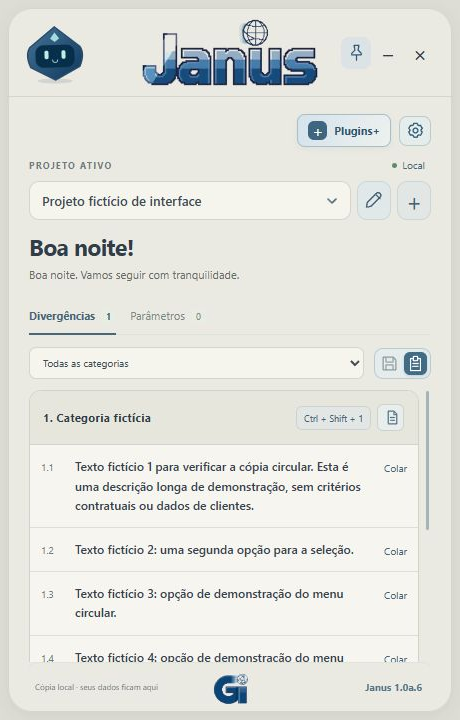
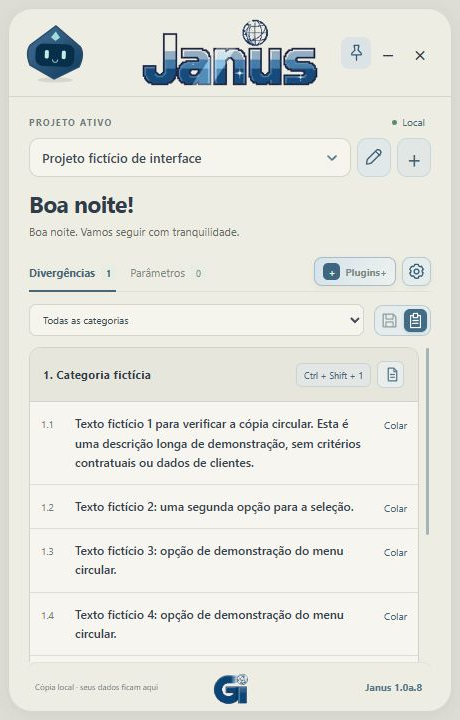
Align panel tools, move plugin note to footer and enrich mascot audio reactions

diff --git a/src/main.ts b/src/main.ts
@@ -57,7 +57,7 @@ root.innerHTML = `
     <div class="filter-row"><select id="category" aria-label="Filtrar categoria"></select><button id="copy-mode" class="copy-mode" role="switch" aria-checked="true"><span aria-hidden="true"><svg viewBox="0 0 24 24"><path d="M4 3h13l4 4v14H3V3zM7 3v7h10V3M7 21v-7h10v7"/></svg></span><span aria-hidden="true"><svg viewBox="0 0 24 24"><path d="M8 5H5v17h14V5h-3M9 2h6v6H9zM8 12h8M8 16h8"/></svg></span></button></div><button id="city-guide" class="guide-link" hidden>Ver orientações do PDF</button>
     <div id="list" class="list" aria-label="Divergências"></div>
     </section><section id="parameters-page" class="content-page" hidden aria-label="Parâmetros do projeto"><div id="parameters-list"></div></section><section id="plugins-page" class="content-page" hidden aria-label="Plugins+"><div class="plugins-page-top"><button id="plugins-back">← Voltar</button><h2>Plugins</h2></div><div id="plugins-content"></div></section>
-    <section id="no-active-menu" class="no-active-menu" hidden><span aria-hidden="true">☁</span><p>Nenhum menu ativo por aqui...</p><small>Você pode ativar os menus nas configurações.</small></section><footer><span id="shortcut-hint" data-help></span><img class="gi-logo" src="./gi-logo.jpg" alt="GI Geotecnologia" width="38" height="35" decoding="async"><button id="about" class="release-button" aria-label="Sobre o Janus 1.0a.7">Janus 1.0a.7</button></footer>
+    <section id="no-active-menu" class="no-active-menu" hidden><span aria-hidden="true">☁</span><p>Nenhum menu ativo por aqui...</p><small>Você pode ativar os menus nas configurações.</small></section><footer><span id="shortcut-hint" data-help></span><img class="gi-logo" src="./gi-logo.jpg" alt="GI Geotecnologia" width="38" height="35" decoding="async"><button id="about" class="release-button" aria-label="Sobre o Janus 1.0a.8">Janus 1.0a.8</button></footer>
   </section>
   <div id="toast" role="status" aria-live="polite"></div>
 </main>
@@ -85,7 +85,7 @@ root.innerHTML = `
  </section>
  </div>
 </dialog>
-<dialog id="info" aria-labelledby="info-title"><div class="dialog-top"><span class="eyebrow">GI GEOTECNOLOGIA</span><button class="icon dismiss" aria-label="Fechar informações">×</button></div><h2 id="info-title">Janus 1.0a.7</h2><p class="about-description">O Janus é um assistente corporativo desenvolvido para otimizar e modernizar o fluxo de trabalho nos setores de cadastramento imobiliário da GI Geotecnologia. Projetado como uma solução centralizada, o software acelera o tratamento de divergências e agiliza a consulta de parâmetros, operando em conjunto com agentes inteligentes que automatizam e dão suporte à execução das demandas operacionais. Com foco em produtividade, o Janus destaca-se por ser uma plataforma altamente customizável. A ferramenta oferece uma ampla gama de atalhos para dar fluidez ao serviço e possui uma arquitetura aberta, permitindo que os próprios usuários desenvolvam e integrem plugins personalizados por meio de uma documentação clara, simples e acessível.</p><p class="release-scope">Plugins+ permite baixar, ativar e desativar o Menu circular. Este primeiro formato personaliza a interface; outros tipos de integração serão adicionados posteriormente.</p><details class="about-credits"><summary>Créditos e informações da versão</summary><p>Personagem geométrico e sons sintetizados próprios do Janus. Código derivado do Coucou de Louis Raillé, sob licença MIT. Consulte os créditos que acompanham o programa.</p><p id="source-note"></p><p>Preferências e projetos ficam em dados/preferencias.json ao lado do executável. As conexões de IA ficam no Gerenciador de Credenciais do Windows.</p></details></dialog>`;
+<dialog id="info" aria-labelledby="info-title"><div class="dialog-top"><span class="eyebrow">GI GEOTECNOLOGIA</span><button class="icon dismiss" aria-label="Fechar informações">×</button></div><h2 id="info-title">Janus 1.0a.8</h2><p class="about-description">O Janus é um assistente corporativo desenvolvido para otimizar e modernizar o fluxo de trabalho nos setores de cadastramento imobiliário da GI Geotecnologia. Projetado como uma solução centralizada, o software acelera o tratamento de divergências e agiliza a consulta de parâmetros, operando em conjunto com agentes inteligentes que automatizam e dão suporte à execução das demandas operacionais. Com foco em produtividade, o Janus destaca-se por ser uma plataforma altamente customizável. A ferramenta oferece uma ampla gama de atalhos para dar fluidez ao serviço e possui uma arquitetura aberta, permitindo que os próprios usuários desenvolvam e integrem plugins personalizados por meio de uma documentação clara, simples e acessível.</p><p class="release-scope">Plugins+ permite baixar, ativar e desativar o Menu circular. Este primeiro formato personaliza a interface; outros tipos de integração serão adicionados posteriormente.</p><details class="about-credits"><summary>Créditos e informações da versão</summary><p>Personagem geométrico e sons sintetizados próprios do Janus. Código derivado do Coucou de Louis Raillé, sob licença MIT. Consulte os créditos que acompanham o programa.</p><p id="source-note"></p><p>Preferências e projetos ficam em dados/preferencias.json ao lado do executável. As conexões de IA ficam no Gerenciador de Credenciais do Windows.</p></details></dialog>`;
 const $ = <T extends HTMLElement = HTMLElement>(id:string) => document.getElementById(id) as T;
 const emptyProject:City={id:'',name:'Nenhum projeto',source:'',items:[]};
 const city = () => catalog.find(c=>c.id===prefs.city) ?? emptyProject;
@@ -111,7 +111,7 @@ async function sizeRadial(frame:RadialFrame,force=false){
 async function showRadial(value=false){
  const wasShown=radialShown,wasCompact=compact;
  const transition=++radialTransition;if(value&&radialShown&&!compact&&!radialPicker&&radialRoute==='home'&&!matchMedia('(prefers-reduced-motion: reduce)').matches){radialFolding=true;radialView?.element.classList.add('radial-retract');await new Promise(resolve=>setTimeout(resolve,320));if(transition!==radialTransition)return;}radialFolding=false;radialView?.element.classList.remove('radial-retract');
- if(!radialLayout||!radialView)return;radialRoute='home';root.dataset.radialPage='home';document.querySelectorAll<HTMLDialogElement>('dialog[open]').forEach(d=>d.close());if(chatOpen){chatOpen=false;$('janus-chat').hidden=true;root.classList.remove('chatting');}const changed=prefs.radialCompact!==value;prefs.radialCompact=value;compact=value;radialShown=true;radialPicker=false;root.classList.add('radial-mode');root.classList.remove('compact');
+ if(!radialLayout||!radialView)return;radialRoute='home';root.dataset.radialPage='home';document.querySelectorAll<HTMLDialogElement>('dialog[open]').forEach(d=>d.close());if(chatOpen){chatOpen=false;engine.setActivity(aiBusy?'thinking':'idle');$('janus-chat').hidden=true;root.classList.remove('chatting');}const changed=prefs.radialCompact!==value;prefs.radialCompact=value;compact=value;radialShown=true;radialPicker=false;root.classList.add('radial-mode');root.classList.remove('compact');
  const frame=radialView.main(value,{divergences:groups().length,parameters:guidanceForCity().parameters.filter(s=>s.text.trim()).length},action=>void radialAction(action));
  await sizeRadial(frame);applyLook();if(wasShown&&wasCompact!==value)Sound.play(value?'radialClose':'radialOpen');if(changed)save();
 }
@@ -123,7 +123,7 @@ async function radialAction(action:string,settingsSection:SettingsSection='gener
  if(!radialView)return;if(pickerActive)await closeCategory();++radialTransition;radialFolding=false;radialView.element.classList.remove('radial-retract');
  if(action==='home'){await showRadial(false);return;}
  document.querySelectorAll<HTMLDialogElement>('dialog[open]').forEach(d=>d.close());
- if(action!=='agent'&&chatOpen){chatOpen=false;$('janus-chat').hidden=true;root.classList.remove('chatting');}
+ if(action!=='agent'&&chatOpen){chatOpen=false;engine.setActivity(aiBusy?'thinking':'idle');$('janus-chat').hidden=true;root.classList.remove('chatting');}
  radialRoute=action;compact=false;radialShown=true;radialPicker=false;root.dataset.radialPage=action;root.classList.add('radial-mode');root.classList.remove('compact','picking');
  const frame=radialView.main(false,{divergences:groups().length,parameters:guidanceForCity().parameters.filter(s=>s.text.trim()).length},name=>void radialAction(name),true,action);
  await sizeRadial(frame);
@@ -379,16 +379,16 @@ async function boot() {
   setCity();applyLook();updateCopyMode();
   $('city').onchange=()=>{Sound.play('project');prefs.city=$<HTMLSelectElement>('city').value;setCity();void configureKeys();save();};
   $('search').oninput=()=>{query=$<HTMLInputElement>('search').value;renderList();};
-  $('copy-mode').onclick=()=>{prefs.copyMode=prefs.copyMode==='paste'?'copy':'paste';updateCopyMode();renderList();save();};
+  $('copy-mode').onclick=()=>{Sound.play('toggle');prefs.copyMode=prefs.copyMode==='paste'?'copy':'paste';updateCopyMode();renderList();save();};
   $('category').onchange=()=>{category=$<HTMLSelectElement>('category').value;renderList();};
-  $('all').onclick=()=>showPage('divergences');$('parameters-tab').onclick=()=>showPage('parameters');$('plugins-tab').onclick=()=>{Sound.play('navigate');showPage('plugins');};$('plugins-back').onclick=()=>{if(radialLayout)void showRadial(false);else showPage('divergences');};$('close-search').onclick=closeSearch;$('radial-return').onclick=()=>{document.querySelectorAll<HTMLDialogElement>('dialog[open]').forEach(d=>d.close());void showRadial(false);};
+  $('all').onclick=()=>{Sound.play('navigate');showPage('divergences');};$('parameters-tab').onclick=()=>{Sound.play('navigate');showPage('parameters');};$('plugins-tab').onclick=()=>{Sound.play('navigate');showPage('plugins');};$('plugins-back').onclick=()=>{if(radialLayout)void showRadial(false);else showPage('divergences');};$('close-search').onclick=closeSearch;$('radial-return').onclick=()=>{document.querySelectorAll<HTMLDialogElement>('dialog[open]').forEach(d=>d.close());void showRadial(false);};
   $('settings').onclick=()=>{Sound.play('navigate');openSettings();};$('about').onclick=()=>$<HTMLDialogElement>('info').showModal();
   document.querySelectorAll<HTMLButtonElement>('.dismiss').forEach(b=>b.onclick=()=>{const dialog=b.closest('dialog')!;dialog.close();if(radialShown&&dialog.id==='preferences')void showRadial(false);});
   $('collapse').onclick=()=>{if(radialShown&&native)void getCurrentWindow().minimize();else void setCompact(true);};$('expand').onclick=()=>void setCompact(false);
   $('close').onclick=()=>{if(native)void saveChain.then(()=>getCurrentWindow().close());else toast('No aplicativo Windows, este botão encerra o Janus.');};
   const pin=async()=>{if(native){await getCurrentWindow().setAlwaysOnTop(prefs.pinned);if(radialShown&&prefs.pinned)await dock(true);}applyLook();save();};
-  $('pin').onclick=()=>{prefs.pinned=!prefs.pinned;void pin().catch(()=>toast('Não foi possível fixar o painel.',true));};
-  for(const id of ['assistant','sound','pinned','hover','smartTransparency'] as const) $(id).onchange=()=>{prefs[id]=$<HTMLInputElement>(id).checked;if(id==='pinned')void pin().catch(()=>toast('Não foi possível fixar o painel.',true));else{if(id==='hover'&&!prefs.hover&&!radialShown&&compact)void setCompact(false);applyLook();save();}};
+  $('pin').onclick=()=>{prefs.pinned=!prefs.pinned;Sound.play(prefs.pinned?'pin':'unpin');engine.triggerEmote('wink');void pin().catch(()=>toast('Não foi possível fixar o painel.',true));};
+  for(const id of ['assistant','sound','pinned','hover','smartTransparency'] as const) $(id).onchange=()=>{prefs[id]=$<HTMLInputElement>(id).checked;if(id==='pinned')void pin().catch(()=>toast('Não foi possível fixar o painel.',true));else{if(id==='hover'&&!prefs.hover&&!radialShown&&compact)void setCompact(false);applyLook();if(id==='sound'&&prefs.sound)Sound.play('connected');save();}};
   for(const id of ['showDivergences','showParameters'] as const)$(id).onchange=()=>{prefs[id]=$<HTMLInputElement>(id).checked;showPage(activePage);save();};
   $('showPickerGuidance').onchange=()=>{prefs.showPickerGuidance=$<HTMLInputElement>('showPickerGuidance').checked;save();};
   $('opacity').oninput=()=>{prefs.opacity=Number($<HTMLInputElement>('opacity').value);applyLook();};$('opacity').onchange=save;
@@ -403,7 +403,7 @@ async function boot() {
     lastHeaderPress={time:now,x:e.screenX,y:e.screenY};
     if(doubleClick){lastHeaderPress.time=0;void dock(true);}else void getCurrentWindow().startDragging();
   };
-  const projectTools=document.createElement('div');projectTools.className='project-tools';projectTools.append($('plugins-tab'),$('settings'));document.querySelector('.city-row')!.prepend(projectTools);
+  const projectTools=document.createElement('div');projectTools.className='project-tools';projectTools.append($('plugins-tab'),$('settings'));document.querySelector('.tabs')!.append(projectTools);
   window.addEventListener('janus-plugin-imported',()=>{Sound.play('plugin');engine.triggerEmote('celebrate');});
   setupFreeDragging();
   $('dragbar').ondblclick=e=>{if(!native&&!(e.target as HTMLElement).closest('button'))void dock(true);};
@@ -447,8 +447,8 @@ async function boot() {
   document.addEventListener('keydown',e=>{if((e.ctrlKey&&['p','s'].includes(e.key.toLowerCase()))||e.key==='F7')e.preventDefault();});
   void setupLogo($<HTMLCanvasElement>('logo')).catch(()=>toast('Não foi possível carregar a animação.',true));
   $('logo').onkeydown=e=>{if(e.key==='Enter'||e.key===' '){e.preventDefault();$('logo').click();}};
-  if(!updateProbe)await configureKeys();applyLook();engine.greet();if(!updateProbe){Sound.play('wave');save();}
-  if(updateProbe)await invoke('update_healthy');else{await setupPluginsPage($('plugins-content'),native,changePlugin);const fontContainer=document.createElement('div');fontContainer.id='font-plugin-card';$('plugins-content').after(fontContainer);await setupFontPlugin(fontContainer,native,enabled=>{$('settings-fonts-tab').hidden=!enabled;if(!enabled&&$('settings-fonts-tab').getAttribute('aria-selected')==='true')showSettingsSection('general');});if(!radialLayout&&prefs.hover)await setCompact(true);if(native)await getCurrentWindow().show();void setupUpdater(native,async()=>{save();await saveChain;});}
+  if(!updateProbe)await configureKeys();applyLook();engine.greet();if(!updateProbe){Sound.setup();Sound.play('wave');save();}
+  if(updateProbe)await invoke('update_healthy');else{await setupPluginsPage($('plugins-content'),native,changePlugin);const fontContainer=document.createElement('div');fontContainer.id='font-plugin-card';$('plugins-content').after(fontContainer);const pluginNote=document.createElement('small');pluginNote.className='plugins-note plugins-footer-note';pluginNote.textContent='Arquivos JSON de layout compatíveis. A ativação independe do projeto.';fontContainer.after(pluginNote);await setupFontPlugin(fontContainer,native,enabled=>{$('settings-fonts-tab').hidden=!enabled;if(!enabled&&$('settings-fonts-tab').getAttribute('aria-selected')==='true')showSettingsSection('general');});if(!radialLayout&&prefs.hover)await setCompact(true);if(native)await getCurrentWindow().show();void setupUpdater(native,async()=>{save();await saveChain;});}
 }
 function validCity(value:any):value is City {return validProject(value);}
 function updateCopyMode(){const copying=prefs.copyMode==='copy';$('copy-mode').setAttribute('aria-checked',String(!copying));$('copy-mode').setAttribute('aria-label',copying?'Apenas copiar. Alternar para colar.':'Copiar e colar. Alternar para apenas copiar.');$('copy-mode').title=copying?'Disquete · Apenas copia o texto para a área de transferência (Ctrl + C). Clique para colar.':'Prancheta · Copia e cola o texto no aplicativo anterior (Ctrl + V). Clique para apenas copiar.';}
@@ -608,14 +608,14 @@ function setupAI(){
  $('open-ai').onclick=()=>openSettings('agent');
  $('chat-connect').onclick=async()=>{await closeChat();openSettings('agent');};
  $('close-chat').onclick=()=>void closeChat();
- $('clear-chat').onclick=()=>{if(aiBusy)return;chatHistory.delete(prefs.city);renderConversation();};
+ $('clear-chat').onclick=()=>{if(aiBusy)return;Sound.play('clear');engine.triggerEmote('happy');chatHistory.delete(prefs.city);renderConversation();};
  $('ai-question').onkeydown=e=>{if(e.key==='Enter'&&!e.shiftKey&&!e.isComposing){e.preventDefault();$('ask-ai').click();}};
  $('connect-ai').onclick=async()=>{
   if(aiBusy)return;if(!native){$('ai-status').textContent='Conecte pelo aplicativo Windows.';return;}
   const key=$<HTMLInputElement>('agent-key').value.trim(),config:AgentConfig={provider:$<HTMLSelectElement>('agent-provider').value,baseUrl:$<HTMLInputElement>('agent-url').value.trim().replace(/\/$/,''),model:$<HTMLInputElement>('agent-model').value.trim()};
   if(!config.model||!config.baseUrl){$('ai-status').textContent='Preencha o endereço da API e o modelo.';return;}
   aiBusy=true;$<HTMLButtonElement>('connect-ai').disabled=true;$<HTMLButtonElement>('remove-ai').disabled=true;$('ai-status').textContent='Testando conexão com o provedor…';
-  try{connectedAgent=await invoke<AgentConfig>('ai_connect',{key,config});if(config.provider==='gemini')prefs.geminiModel=config.model;lastWelcomeAttempt='';prefs.welcomeAttempt=undefined;prefs.welcomeCache=undefined;save();aiConnected=true;$<HTMLInputElement>('agent-key').value='';showAIState();await configureKeys();$<HTMLDialogElement>('preferences').close();await openChat();}catch(e){$('ai-status').textContent=String(e);}finally{aiBusy=false;$<HTMLButtonElement>('connect-ai').disabled=false;$<HTMLButtonElement>('remove-ai').disabled=false;}
+  try{connectedAgent=await invoke<AgentConfig>('ai_connect',{key,config});if(config.provider==='gemini')prefs.geminiModel=config.model;lastWelcomeAttempt='';prefs.welcomeAttempt=undefined;prefs.welcomeCache=undefined;save();aiConnected=true;Sound.play('connected');engine.triggerEmote('wave');$<HTMLInputElement>('agent-key').value='';showAIState();await configureKeys();$<HTMLDialogElement>('preferences').close();await openChat();}catch(e){$('ai-status').textContent=String(e);}finally{aiBusy=false;$<HTMLButtonElement>('connect-ai').disabled=false;$<HTMLButtonElement>('remove-ai').disabled=false;}
  };
  $('remove-ai').onclick=async()=>{if(aiBusy)return;try{if(native)await invoke('ai_remove');aiConnected=false;connectedAgent=null;prefs.welcomeCache=undefined;save();$<HTMLInputElement>('agent-key').value='';await closeChat();showAIState();await configureKeys();}catch{$('ai-status').textContent='Não foi possível remover a chave. Tente novamente.';}};
  $('ask-ai').onclick=async()=>{
@@ -624,8 +624,8 @@ function setupAI(){
   const previous=history.filter(m=>m.role!=='error').slice(-12).map(m=>`${m.role==='user'?'Usuário':'Janus'}: ${m.text}`).join('\n').slice(-30000);
   const reference=$<HTMLInputElement>('ai-context').checked?{projeto:projectLabel(city().name),divergencias:city().items,parametros:guidanceForCity()}:undefined;
   const context=JSON.stringify({conversaAnterior:previous,referencia:reference});
-  Sound.play('send');history.push({role:'user',text:question});$<HTMLTextAreaElement>('ai-question').value='';aiBusy=true;renderConversation();syncChatConnection();$('thinking').hidden=false;scrollConversation();
-  try{const answer=await invoke<string>('ai_ask',{question,context,legacyModel:prefs.geminiModel,welcome:false});history.push({role:'assistant',text:answer});Sound.play('finish');engine.triggerEmote('celebrate');}catch(e){Sound.play('error');history.push({role:'error',text:String(e)});}finally{aiBusy=false;$('thinking').hidden=true;renderConversation();syncChatConnection();$('ai-question').focus();}
+  Sound.play('send');engine.setActivity('thinking');history.push({role:'user',text:question});$<HTMLTextAreaElement>('ai-question').value='';aiBusy=true;renderConversation();syncChatConnection();$('thinking').hidden=false;scrollConversation();
+  try{const answer=await invoke<string>('ai_ask',{question,context,legacyModel:prefs.geminiModel,welcome:false});history.push({role:'assistant',text:answer});Sound.play('response');engine.triggerEmote('respond');}catch(e){Sound.play('error');engine.triggerEmote('concerned');history.push({role:'error',text:String(e)});}finally{aiBusy=false;engine.setActivity(chatOpen?'listening':'idle');$('thinking').hidden=true;renderConversation();syncChatConnection();$('ai-question').focus();}
 
  };
 }
@@ -644,14 +644,14 @@ async function openChat(){
  if(chatOpen){if(native){await getCurrentWindow().show();await getCurrentWindow().unminimize();await getCurrentWindow().setFocus();}$('ai-question').focus();return;}
  chatReturnCompact=compact;chatOpen=true;root.classList.add('chatting');
  if(native){if(!radialShown){await getCurrentWindow().setMinSize(null);await getCurrentWindow().setSize(new LogicalSize(460,700));}await getCurrentWindow().show();await getCurrentWindow().unminimize();await getCurrentWindow().setFocus();}
- $('close-chat').textContent=radialShown?'← Menu circular':'← Voltar ao painel';$('close-chat').setAttribute('aria-label',radialShown?'Voltar ao menu circular':'Voltar ao painel');$('janus-chat').hidden=false;renderConversation();syncChatConnection();applyLook();Sound.play('question');$('ai-question').focus();
+ $('close-chat').textContent=radialShown?'← Menu circular':'← Voltar ao painel';$('close-chat').setAttribute('aria-label',radialShown?'Voltar ao menu circular':'Voltar ao painel');$('janus-chat').hidden=false;renderConversation();syncChatConnection();applyLook();engine.setActivity(aiBusy?'thinking':'listening');engine.triggerEmote('happy');Sound.play('question');$('ai-question').focus();
 }
 function syncChatConnection(){
  $('chat-connect').hidden=aiConnected;$('chat-disconnected').hidden=aiConnected;
  $<HTMLButtonElement>('ask-ai').disabled=!aiConnected||aiBusy;
 }
-async function closeChat(){if(!chatOpen)return;chatOpen=false;$('janus-chat').hidden=true;root.classList.remove('chatting');Sound.play('close');if(radialShown)await showRadial(false);else await setCompact(chatReturnCompact);applyLook();}
-root.querySelector('.shell')!.insertAdjacentHTML('beforeend',`<section id="janus-chat" class="janus-chat" hidden aria-label="Chat do Janus"><div class="chat-toolbar"><button id="close-chat" aria-label="Voltar ao painel">← Voltar ao painel</button><button id="clear-chat" title="Limpar conversa deste projeto">Limpar conversa</button></div><div class="chat-intro"><div class="speech-bubble"><strong>Converse com o Janus</strong><span>Uma ajuda para o seu projeto.</span></div></div><div id="chat-transcript" class="chat-transcript" role="log" aria-label="Conversa" aria-live="polite"><div id="chat-welcome" class="chat-welcome"><h3>Em que posso ajudar?</h3><p>Faça uma pergunta, peça uma explicação ou converse sobre o projeto.</p><p class="small">A conversa fica disponível enquanto o Janus estiver aberto.</p></div><p id="chat-disconnected" class="small">Conecte um agente IA nas configurações para enviar mensagens.</p><button id="chat-connect" class="connect-chat">Conectar agente IA</button><div id="chat-messages"></div><div id="thinking" class="thinking" role="status" aria-label="Janus está pensando" hidden><span></span><span></span><span></span></div></div><div class="chat-compose"><label class="field-label" for="ai-question">SUA MENSAGEM</label><textarea id="ai-question" rows="2" maxlength="10000" placeholder="Escreva sua mensagem…"></textarea><div class="chat-compose-actions"><small data-help>Enter envia · Shift + Enter pula linha</small><button class="primary" id="ask-ai">Enviar ↑</button></div></div><label class="chat-context"><input type="checkbox" id="ai-context"> Incluir divergências e parâmetros do projeto</label><p class="chat-privacy">Ao enviar, sua mensagem, as últimas mensagens da conversa e o conteúdo marcado vão para o provedor de IA conectado.</p><span class="app-version chat-version">Janus 1.0a.7</span></section>`);
+async function closeChat(){if(!chatOpen)return;chatOpen=false;engine.setActivity(aiBusy?'thinking':'idle');$('janus-chat').hidden=true;root.classList.remove('chatting');Sound.play('close');if(radialShown)await showRadial(false);else await setCompact(chatReturnCompact);applyLook();}
+root.querySelector('.shell')!.insertAdjacentHTML('beforeend',`<section id="janus-chat" class="janus-chat" hidden aria-label="Chat do Janus"><div class="chat-toolbar"><button id="close-chat" aria-label="Voltar ao painel">← Voltar ao painel</button><button id="clear-chat" title="Limpar conversa deste projeto">Limpar conversa</button></div><div class="chat-intro"><div class="speech-bubble"><strong>Converse com o Janus</strong><span>Uma ajuda para o seu projeto.</span></div></div><div id="chat-transcript" class="chat-transcript" role="log" aria-label="Conversa" aria-live="polite"><div id="chat-welcome" class="chat-welcome"><h3>Em que posso ajudar?</h3><p>Faça uma pergunta, peça uma explicação ou converse sobre o projeto.</p><p class="small">A conversa fica disponível enquanto o Janus estiver aberto.</p></div><p id="chat-disconnected" class="small">Conecte um agente IA nas configurações para enviar mensagens.</p><button id="chat-connect" class="connect-chat">Conectar agente IA</button><div id="chat-messages"></div><div id="thinking" class="thinking" role="status" aria-label="Janus está pensando" hidden><span></span><span></span><span></span></div></div><div class="chat-compose"><label class="field-label" for="ai-question">SUA MENSAGEM</label><textarea id="ai-question" rows="2" maxlength="10000" placeholder="Escreva sua mensagem…"></textarea><div class="chat-compose-actions"><small data-help>Enter envia · Shift + Enter pula linha</small><button class="primary" id="ask-ai">Enviar ↑</button></div></div><label class="chat-context"><input type="checkbox" id="ai-context"> Incluir divergências e parâmetros do projeto</label><p class="chat-privacy">Ao enviar, sua mensagem, as últimas mensagens da conversa e o conteúdo marcado vão para o provedor de IA conectado.</p><span class="app-version chat-version">Janus 1.0a.8</span></section>`);
 root.insertAdjacentHTML('afterend',`
 <dialog id="guidance-menu" aria-labelledby="guidance-title"><div class="dialog-top"><h2 id="guidance-title"></h2><button class="icon dismiss" aria-label="Fechar orientações da categoria">×</button></div><div id="guidance-content"></div></dialog>
 <dialog id="category-picker"><div class="dialog-top"><span class="eyebrow">ESCOLHA A DIVERGÊNCIA</span><button id="close-picker" class="icon" aria-label="Fechar opções">×</button></div><h2 id="picker-title"></h2><button id="toggle-picker-guidance" class="picker-guidance-toggle" aria-controls="picker-guidance">Ocultar orientações</button><div id="picker-guidance"></div><p id="picker-action-hint" class="small" data-help>↑ ↓ para escolher · Enter para colar · Esc para voltar</p><div id="picker-options" role="listbox" aria-label="Opções da divergência"></div></dialog>

diff --git a/src/avatar.ts b/src/avatar.ts
@@ -1,27 +1,32 @@
 // Original Janus compass character, drawn without external artwork.
 export class BotEngine {
- lookX=0;lookY=0;private time=0;private reaction=0;private expression='';
+ lookX=0;lookY=0;private time=0;private reaction=0;private expression='';private activity:'idle'|'listening'|'thinking'='idle';
  update(dt:number){this.time+=Math.min(dt,.1);this.reaction=Math.max(0,this.reaction-dt);}
- triggerEmote(name:string){this.expression=name;this.reaction=1.3;}
+ triggerEmote(name:string){this.expression=name;this.reaction=name==='respond'?2.4:1.3;}
+ setActivity(activity:'idle'|'listening'|'thinking'){this.activity=activity;}
  greet(){this.triggerEmote('wave');this.reaction=2.4;}slap(){this.triggerEmote('surprised');}
  draw(ctx:CanvasRenderingContext2D,width:number,height:number){
   const reduced=matchMedia('(prefers-reduced-motion: reduce)').matches,t=this.time;
   ctx.save();ctx.scale(Math.min(width,height)/160,Math.min(width,height)/160);ctx.translate(80,80+(reduced?0:Math.sin(t*1.8)*3));
+  const thinking=this.activity==='thinking',listening=this.activity==='listening',responding=this.reaction>0&&this.expression==='respond';
   const x=Math.max(-1,Math.min(1,this.lookX))*7,y=Math.max(-1,Math.min(1,this.lookY))*6;
-  ctx.fillStyle='rgba(22,51,78,.12)';ctx.beginPath();ctx.ellipse(0,53,35,5,0,0,Math.PI*2);ctx.fill();ctx.rotate(reduced?0:Math.sin(t*.9)*.035);
+  if(thinking||listening||responding){ctx.save();ctx.strokeStyle=thinking?'#76b7cf88':'#83d7d377';ctx.lineWidth=2;ctx.beginPath();ctx.ellipse(0,0,62+(reduced?0:Math.sin(t*3)*2),59,0,0,Math.PI*2);ctx.stroke();if(thinking)for(let i=0;i<3;i++){const a=(reduced?-.9:t*1.4)+i*.55;ctx.fillStyle='#a3e5e4';ctx.beginPath();ctx.arc(Math.cos(a)*62,Math.sin(a)*59,3,0,Math.PI*2);ctx.fill();}ctx.restore();}
+  ctx.fillStyle='rgba(22,51,78,.12)';ctx.beginPath();ctx.ellipse(0,53,35,5,0,0,Math.PI*2);ctx.fill();ctx.rotate(reduced?0:thinking?Math.sin(t*2)*.075:listening?Math.sin(t*2.7)*.045:Math.sin(t*.9)*.035);
   const g=ctx.createLinearGradient(-45,-45,45,45);g.addColorStop(0,'#426d92');g.addColorStop(1,'#123d61');ctx.fillStyle=g;ctx.strokeStyle='#294c6b';ctx.lineWidth=3;
   ctx.beginPath();ctx.moveTo(0,-55);ctx.lineTo(50,-15);ctx.quadraticCurveTo(60,0,49,25);ctx.lineTo(0,51);ctx.lineTo(-49,25);ctx.quadraticCurveTo(-60,0,-50,-15);ctx.closePath();ctx.fill();ctx.stroke();
   if(this.reaction>0&&!reduced&&this.expression==='wave'){ctx.save();ctx.translate(51,-3);ctx.rotate(Math.sin(t*16)*.35);ctx.strokeStyle='#75b3c9';ctx.lineWidth=7;ctx.beginPath();ctx.moveTo(0,15);ctx.lineTo(12,-6);ctx.stroke();ctx.fillStyle='#bdeee8';ctx.beginPath();ctx.ellipse(12,-12,7,10,0,0,Math.PI*2);ctx.fill();ctx.restore();}
   if(this.reaction>0&&this.expression==='wave'){ctx.fillStyle='#d0eeec';ctx.beginPath();ctx.roundRect(-64,-65,38,23,8);ctx.fill();ctx.fillStyle='#234f70';ctx.font='bold 14px Segoe UI';ctx.textAlign='center';ctx.fillText('Oi!',-45,-49);}
   ctx.fillStyle='#9fdedc';ctx.beginPath();ctx.moveTo(0,-44);ctx.lineTo(9,-32);ctx.lineTo(0,-25);ctx.lineTo(-9,-32);ctx.closePath();ctx.fill();
   ctx.fillStyle='#082f49';ctx.beginPath();ctx.roundRect(-39,-19,78,45,16);ctx.fill();
-  const curious=this.reaction>0&&['curious','thinking'].includes(this.expression),surprise=this.reaction>0&&this.expression==='surprised';
-  if(curious){ctx.save();ctx.fillStyle='#d3eff0';ctx.font='bold 29px Segoe UI';ctx.textAlign='center';ctx.fillText('?',39,-35+(reduced?0:Math.sin(t*4)*2));ctx.restore();}
+  const curious=thinking||this.reaction>0&&['curious','thinking'].includes(this.expression),surprise=this.reaction>0&&this.expression==='surprised';
+  if(curious&&!thinking){ctx.save();ctx.fillStyle='#d3eff0';ctx.font='bold 29px Segoe UI';ctx.textAlign='center';ctx.fillText('?',39,-35+(reduced?0:Math.sin(t*4)*2));ctx.restore();}
   if(this.reaction>0&&this.expression==='celebrate'){for(let i=0;i<6;i++){const angle=i*Math.PI/3+(reduced?0:t);ctx.fillStyle=i%2?'#88d4ce':'#c4eaf0';ctx.beginPath();ctx.arc(Math.cos(angle)*61,Math.sin(angle)*48,2.5,0,Math.PI*2);ctx.fill();}}
-  const happy=this.reaction>0&&['happy','love','wave','celebrate'].includes(this.expression),blink=!reduced&&Math.sin(t*1.3)>.995;
+  if(thinking){ctx.fillStyle='#d0eeec';ctx.beginPath();ctx.roundRect(16,-65,48,22,9);ctx.fill();for(let i=0;i<3;i++){ctx.fillStyle='#315f7b';ctx.beginPath();ctx.arc(27+i*12,-54+(reduced?0:Math.sin(t*5-i*.8)*2),2.4,0,Math.PI*2);ctx.fill();}}
+  if(responding){ctx.strokeStyle='#a9e4e4';ctx.lineWidth=2;for(let i=0;i<3;i++){ctx.beginPath();ctx.arc(47,-8,10+i*5,-.6,.6);ctx.stroke();}}
+  const happy=this.reaction>0&&['happy','love','wave','celebrate','respond'].includes(this.expression),blink=!reduced&&Math.sin(t*1.3)>.995;
   ctx.strokeStyle='#bdeee8';ctx.fillStyle='#bdeee8';ctx.lineWidth=4;ctx.lineCap='round';
-  for(const offset of [-17,17]){if(happy){ctx.beginPath();ctx.arc(offset+x,5+y,7,Math.PI,Math.PI*2);ctx.stroke();}else{ctx.beginPath();ctx.roundRect(offset-4+x,-8+y,8,blink?2:surprise?22:curious?(offset<0?12:19):17,4);ctx.fill();}}
-  ctx.strokeStyle='#8bc6d0';ctx.lineWidth=2;ctx.beginPath();ctx.arc(x,11+y,5,0,Math.PI);ctx.stroke();
+  for(const offset of [-17,17]){if(this.reaction>0&&this.expression==='wink'&&offset>0){ctx.beginPath();ctx.moveTo(offset-6+x,3+y);ctx.lineTo(offset+6+x,3+y);ctx.stroke();}else if(happy){ctx.beginPath();ctx.arc(offset+x,5+y,7,Math.PI,Math.PI*2);ctx.stroke();}else{ctx.beginPath();ctx.roundRect(offset-4+x,-8+y,8,blink?2:surprise?22:curious?(offset<0?12:19):17,4);ctx.fill();}}
+  ctx.strokeStyle='#8bc6d0';ctx.lineWidth=2;ctx.beginPath();if(this.reaction>0&&this.expression==='concerned'){ctx.arc(x,19+y,5,Math.PI,Math.PI*2);}else if(responding){ctx.ellipse(x,14+y,5,reduced?3:3+Math.sin(t*12)*1.5,0,0,Math.PI*2);}else{ctx.arc(x,11+y,5,0,Math.PI);}ctx.stroke();
   ctx.restore();
  }
 }

diff --git a/src/core/sound.ts b/src/core/sound.ts
@@ -1,13 +1,24 @@
-// Original procedural audio. No recordings or external samples.
-let context:AudioContext|undefined;
-const melodies:Record<string,number[]>={curious:[523,622,587],wave:[392,494,659],expand:[392,494],fold:[494,392],navigate:[587],project:[440,554,659],plugin:[523,659,784],radialOpen:[480,640],radialClose:[580,430],greet:[392,523,659],finish:[523,784],love:[659,784,988],slap:[220,165],dizzy:[440,370,311],annoyed:[294,262],open:[392,523],send:[659,880],question:[440,587],error:[220,196],close:[523,392]};
-export const Sound={enabled:true,play(name:string){
- if(!this.enabled||!melodies[name])return;
- try{context??=new AudioContext();if(context.state!=='running'){void context.resume().then(()=>{if(context?.state==='running'&&this.enabled)this.play(name);}).catch(()=>{});return;}
-  const start=context.currentTime;
-  melodies[name].forEach((frequency,index)=>{const oscillator=context!.createOscillator(),gain=context!.createGain(),time=start+index*.085;
-   oscillator.type='sine';oscillator.frequency.value=frequency;gain.gain.setValueAtTime(0,time);gain.gain.linearRampToValueAtTime(.035,time+.012);gain.gain.exponentialRampToValueAtTime(.0001,time+.13);
-   oscillator.connect(gain);gain.connect(context!.destination);oscillator.start(time);oscillator.stop(time+.14);oscillator.onended=()=>{oscillator.disconnect();gain.disconnect();};
-  });
- }catch{/* Audio is optional when no output device is available. */}
-}};
+// Original synthesized cues: no recordings, external samples or audio downloads.
+let context:AudioContext|undefined,pending='',installed=false,lastTime=-1000;
+const melodies:Record<string,number[]>={curious:[523,622,587],wave:[392,494,659,784],expand:[392,494],fold:[494,392],navigate:[587],project:[440,554,659],plugin:[523,659,784],radialOpen:[480,640],radialClose:[580,430],greet:[392,523,659],finish:[523,784],response:[523,659,784,1047],connected:[392,523,659,784],toggle:[660,880],pin:[740,988],unpin:[740,554],clear:[587,440],love:[659,784,988],slap:[220,165],dizzy:[440,370,311],annoyed:[294,262],open:[392,523],send:[659,880],question:[440,587],error:[220,196],close:[523,392]};
+export const Sound={
+ enabled:true,
+ setup(){if(installed)return;installed=true;const activate=()=>void this.unlock();window.addEventListener('pointerdown',activate,{capture:true,passive:true});window.addEventListener('keydown',activate,{capture:true});},
+ async unlock(){if(!this.enabled)return;try{context??=new AudioContext();if(context.state!=='running')await context.resume();if(context.state==='running'&&pending){const cue=pending;pending='';this.play(cue);}}catch{/* No sound device or autoplay blocked; retry on the next interaction. */}},
+ play(name:string){
+  if(!this.enabled||!melodies[name])return;
+  try{context??=new AudioContext();if(context.state!=='running'){pending=name;void this.unlock();return;}
+   const now=performance.now();if(now-lastTime<65)return;lastTime=now;
+   const start=context.currentTime,notes=melodies[name],soft=['navigate','toggle','pin','unpin'].includes(name);
+   notes.forEach((frequency,index)=>{const time=start+index*.075,duration=soft?.14:.22;
+    // A quiet harmonic gives each short cue a rounded bell timbre.
+    for(const [ratio,level,type] of [[1,.085,'sine'],[2,.014,'triangle']] as [number,number,OscillatorType][]){
+     const oscillator=context!.createOscillator(),gain=context!.createGain();oscillator.type=type;
+     oscillator.frequency.setValueAtTime(frequency*ratio*(name==='send'?.92:1),time);oscillator.frequency.exponentialRampToValueAtTime(frequency*ratio,time+.045);
+     gain.gain.setValueAtTime(0,time);gain.gain.linearRampToValueAtTime(level/(1+index*.08),time+.012);gain.gain.exponentialRampToValueAtTime(.0001,time+duration);
+     oscillator.connect(gain);gain.connect(context!.destination);oscillator.start(time);oscillator.stop(time+duration+.01);oscillator.onended=()=>{oscillator.disconnect();gain.disconnect();};
+    }
+   });
+  }catch{/* Audio remains optional when an output device is unavailable. */}
+ }
+};

diff --git a/src/style.css b/src/style.css
@@ -90,3 +90,20 @@ h3 *,h4 *{font-family:var(--font-subtitle)!important}
 :root{font-synthesis:weight style}
 
 .radial-petal-copy strong{font-family:var(--font-subtitle)!important}
+
+/* Panel tools stay aligned with the project tabs; plugin help follows the list. */
+.tabs{gap:10px;flex-wrap:nowrap}
+.tabs>.project-tools{display:flex;width:auto;margin:0 0 0 auto;gap:6px;flex:0 0 auto;align-items:center;justify-content:flex-end}
+.tabs .project-tools .plugins-launch{min-height:29px;padding:5px 8px;gap:5px;font-size:10px;margin:0;white-space:nowrap}
+.tabs .project-tools .plugins-launch-mark{width:17px;height:17px;font-size:15px}
+.tabs .project-tools .plugins-launch:after,.tabs .project-tools .settings-button:after{display:none}
+.tabs .project-tools .settings-button{margin:0;width:29px;height:29px}
+.tabs .project-tools .plugins-launch span{margin:0;padding:0;background:transparent;font-size:inherit}
+.tabs .project-tools .plugins-launch .plugins-launch-mark{background:#3f6680}
+.tabs>button{white-space:nowrap}
+#plugins-page>.plugins-footer-note{display:block;flex-shrink:0;margin: auto 0 0;padding:18px 2px 13px;border-top:1px solid #9bb1ba55;line-height:1.6;font-size:10px;color:#687e86}
+#plugins-content{flex:0 0 auto!important}
+#font-plugin-card{margin-bottom:18px}
+@media(max-width:410px){.tabs{gap:7px}.tabs>button{font-size:10px}.tabs .project-tools .plugins-launch{padding:5px 6px;font-size:9px}.tabs .project-tools{gap:4px}}
+
+.tabs>.project-tools{opacity:var(--content-opacity,1)}

diff --git a/src/plugin-manager.ts b/src/plugin-manager.ts
@@ -36,7 +36,7 @@ export async function setupPluginsPage(container:HTMLElement,native:boolean,onCh
   const button=(text:string,action:()=>void)=>{const item=document.createElement('button');item.textContent=text;item.disabled=busy;item.onclick=action;return item;};
   if(!state.installed)actions.append(button('Baixar',()=>void operation('install')));
   else{const toggle=button(state.enabled?'Desativar':'Ativar',()=>void operation('toggle',!state.enabled));toggle.setAttribute('role','switch');toggle.setAttribute('aria-checked',String(state.enabled));toggle.disabled=busy||(!state.layout&&!state.enabled);actions.append(toggle,button('Remover',()=>void operation('remove')));}
-  card.append(copy,actions);container.append(card);const help=document.createElement('small');help.className='plugins-note';help.textContent='Arquivos JSON de layout compatíveis. A ativação independe do projeto.';container.append(help);
+  card.append(copy,actions);container.append(card);
  };
 
  try{state=native?await invoke<Status>('plugin_status'):await browserStatus();await onChange(state.enabled?state.layout:null);}catch(error){state.message=String(error);}

diff --git a/README.md b/README.md
@@ -4,21 +4,21 @@ Assistente portátil para Windows: consulta de divergências e parâmetros, atal
 
 ## Baixar Janus
 
-[**⬇ Baixar Janus para Windows — portátil (.zip)**](https://github.com/kawanlemesgeourbano/janus/releases/download/v1.0a.7/Janus-Windows-portatil.zip)
+[**⬇ Baixar Janus para Windows — portátil (.zip)**](https://github.com/kawanlemesgeourbano/janus/releases/download/v1.0a.8/Janus-Windows-portatil.zip)
 
 Extraia o ZIP em uma pasta onde você possa salvar arquivos e abra **Janus.exe**. Sem instalador e sem execução como administrador. Windows de 64 bits com Microsoft Edge WebView2 disponível.
 
 O programa começa sem projetos cadastrados. Quem usa 1.0a precisa fechar o Janus e substituir o executável uma vez, mantendo a pasta `dados`. Depois, o atualizador verifica novas versões ao abrir, baixa o pacote assinado e aplica ao fechar. Aguarde alguns segundos antes de abrir novamente.
 
-[Detalhes do download e verificação SHA-256](https://github.com/kawanlemesgeourbano/janus/releases/tag/v1.0a.7). Esta é uma versão alpha.
+[Detalhes do download e verificação SHA-256](https://github.com/kawanlemesgeourbano/janus/releases/tag/v1.0a.8). Esta é uma versão alpha.
 
 ## Painel clássico
 
 <img src="docs/images/painel-classico.png" alt="Painel clássico do Janus com controles de Plugins e configurações no topo" width="330">
 
-O Janus acena ao entrar, reage ao mouse e usa sons próprios. Ao sair do mouse, recolhe na posição habitual; ao voltar, expande. O alfinete mantém sobre outras janelas e **Configurações → Janela → Recolher automaticamente** controla esse comportamento separadamente.
+O Janus acena ao entrar e reage ao mouse. No chat, ganha animações ao escutar, pensar e responder; também pisca ao fixar o painel. Os efeitos sonoros são sintetizados no próprio aplicativo, com timbre suave e volume mais perceptível. A reprodução é reativada na primeira interação se o ambiente bloquear o áudio automático. A opção Sons do Janus continua controlando todos os efeitos. Ao sair do mouse, recolhe na posição habitual; ao voltar, expande. O alfinete mantém sobre outras janelas e **Configurações → Janela → Recolher automaticamente** controla esse comportamento separadamente.
 
-Plugins+ oferece uma lista compacta e importação manual de layouts JSON compatíveis. Downloads oficiais mantêm a validação de assinatura. Quando um pacote de atualização estiver pronto, **Atualizar e reabrir** fecha, aplica, valida e abre o programa novamente.
+Plugins+ e configurações ficam à direita das abas Divergências e Parâmetros. A página de plugins mantém uma lista compacta, importação manual de layouts JSON compatíveis e a observação no rodapé. Downloads oficiais mantêm a validação de assinatura. Quando um pacote de atualização estiver pronto, **Atualizar e reabrir** fecha, aplica, valida e abre o programa novamente.
 
 ## Fontes · plugin opcional
 
